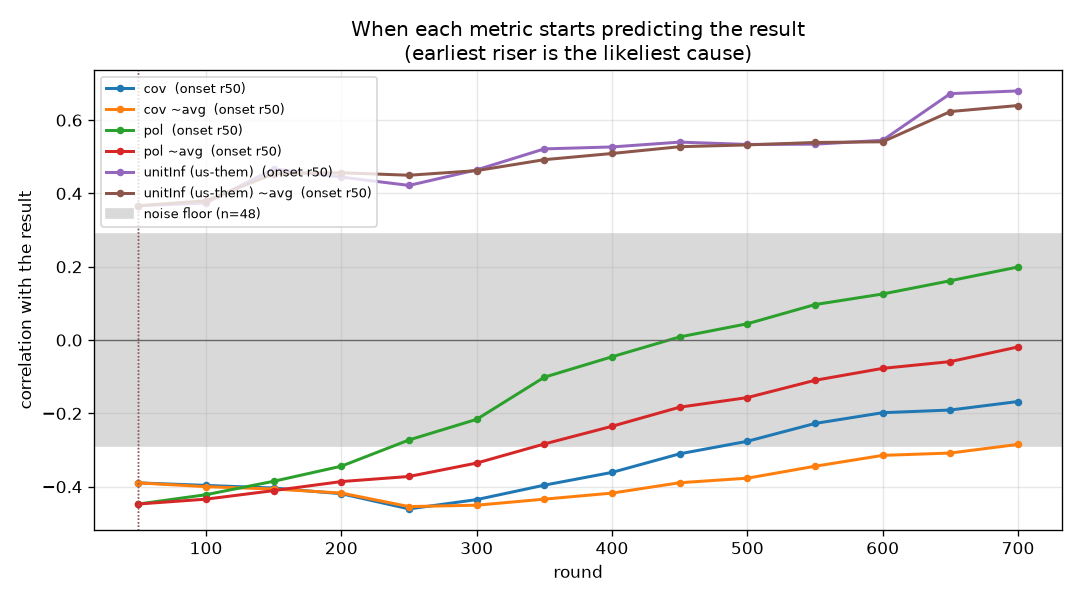
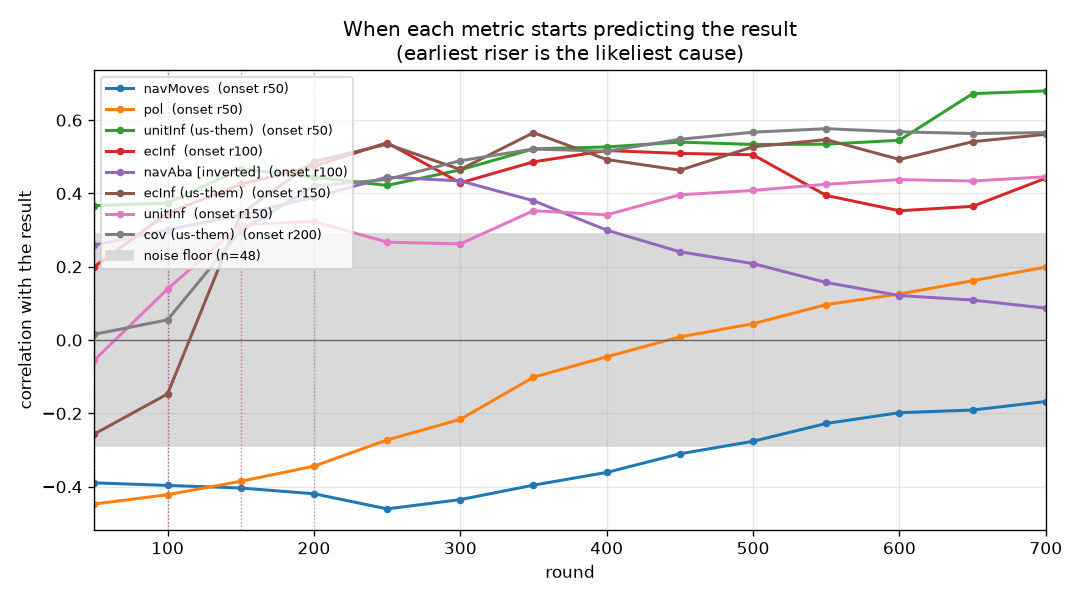
Onset graph: one curve per distinct metric (it was spending half its panel on ~avg duplicates and omitting coverage and ECs entirely); corrected ONSET.md and graph checked in
Claude-Session: https://claude.ai/code/session_01VgeNHsn9ncLsLui8RaK6L7

diff --git a/tools/onset.py b/tools/onset.py
@@ -104,9 +104,18 @@ for _, name, curve, onset in sorted(table):
 if o.plot:
     import matplotlib; matplotlib.use('Agg'); import matplotlib.pyplot as plt
     fig, ax = plt.subplots(figsize=(9, 5))
-    shown = [t for t in sorted(table) if t[3] is not None][:6]
-    if not shown: shown = sorted(table, key=lambda t: -max((abs(c) for c in t[2] if c is not None), default=0))[:6]
+    # one curve per distinct metric: plotting both x and "x ~avg" wastes half the panel on
+    # near-identical lines and pushes later-onset metrics (coverage, ECs) off the graph entirely
+    seen = set(); shown = []
+    for t in sorted(table):
+        base = t[1].replace(' ~avg', '')
+        if t[3] is None or base in seen: continue
+        seen.add(base); shown.append(t)
+        if len(shown) == 8: break
+    if not shown:
+        shown = sorted(table, key=lambda t: -max((abs(c) for c in t[2] if c is not None), default=0))[:8]
     cmap = plt.get_cmap('tab10')
+    ax.set_xlim(min(rounds), max(rounds))
     for i, (_, name, curve, onset) in enumerate(shown):
         xs = [rr for rr, c in zip(rounds, curve) if c is not None]
         ys = [c for c in curve if c is not None]

diff --git a/progress/ONSET.md b/progress/ONSET.md
@@ -9,40 +9,41 @@ See `progress/METRICS.md` for how each quantity is computed.
 
 | onset | metric | peak corr | r50 | r100 | r200 | r300 | r400 | r600 |
 |---|---|---|---|---|---|---|---|---|
-| r50 | cov | -0.46 | -0.39 | -0.40 | -0.42 | -0.44 | -0.36 | -0.20 |
-| r50 | cov ~avg | -0.45 | -0.39 | -0.40 | -0.42 | -0.45 | -0.42 | -0.31 |
+| r50 | navMoves | -0.46 | -0.39 | -0.40 | -0.42 | -0.44 | -0.36 | -0.20 |
+| r50 | navMoves ~avg | -0.45 | -0.39 | -0.40 | -0.42 | -0.45 | -0.42 | -0.31 |
 | r50 | pol | -0.45 | -0.45 | -0.42 | -0.34 | -0.22 | -0.05 | +0.13 |
 | r50 | pol ~avg | -0.45 | -0.45 | -0.43 | -0.39 | -0.34 | -0.24 | -0.08 |
 | r50 | unitInf (us-them) | +0.68 | +0.37 | +0.37 | +0.44 | +0.46 | +0.53 | +0.55 |
 | r50 | unitInf (us-them) ~avg | +0.64 | +0.37 | +0.38 | +0.46 | +0.46 | +0.51 | +0.54 |
 | r100 | ecInf | +0.54 | +0.20 | +0.35 | +0.47 | +0.43 | +0.52 | +0.35 |
 | r100 | ecInf ~avg | +0.63 | +0.20 | +0.34 | +0.46 | +0.50 | +0.54 | +0.61 |
-| r100 | navMoves | -0.44 | -0.26 | -0.30 | -0.39 | -0.43 | -0.30 | -0.12 |
-| r100 | navMoves ~avg | -0.44 | -0.26 | -0.31 | -0.38 | -0.44 | -0.37 | -0.25 |
+| r100 | navAba [inverted] | +0.44 | +0.26 | +0.30 | +0.39 | +0.43 | +0.30 | +0.12 |
+| r100 | navAba [inverted] ~avg | +0.44 | +0.26 | +0.31 | +0.38 | +0.44 | +0.37 | +0.25 |
 | r150 | ecInf (us-them) | +0.57 | -0.26 | -0.15 | +0.49 | +0.47 | +0.49 | +0.49 |
 | r150 | unitInf | +0.45 | -0.05 | +0.14 | +0.32 | +0.26 | +0.34 | +0.44 |
+| r200 | cov (us-them) | +0.58 | +0.02 | +0.06 | +0.42 | +0.49 | +0.52 | +0.57 |
+| r200 | cov (us-them) ~avg | +0.53 | +0.02 | +0.05 | +0.34 | +0.43 | +0.44 | +0.51 |
 | r200 | ec (us-them) | +0.59 | -0.13 | +0.16 | +0.45 | +0.53 | +0.59 | +0.56 |
 | r200 | ec (us-them) ~avg | +0.63 | -0.13 | +0.11 | +0.38 | +0.46 | +0.54 | +0.59 |
 | r200 | ecInf (us-them) ~avg | +0.67 | -0.26 | -0.20 | +0.44 | +0.51 | +0.60 | +0.64 |
-| r200 | navMoves (us-them) | -0.41 | -0.27 | -0.16 | -0.33 | -0.38 | -0.15 | +0.18 |
-| r200 | navSwamp (us-them) | -0.32 | -0.18 | -0.15 | -0.31 | -0.32 | -0.05 | +0.08 |
-| r250 | navMoves (us-them) ~avg | -0.38 | -0.27 | -0.19 | -0.28 | -0.38 | -0.26 | -0.00 |
+| r200 | navAba (us-them) | -0.41 | -0.27 | -0.16 | -0.33 | -0.38 | -0.15 | +0.18 |
+| r250 | navAba (us-them) ~avg | -0.38 | -0.27 | -0.19 | -0.28 | -0.38 | -0.26 | -0.00 |
 | r300 | buff ~avg | +0.36 | +0.15 | +0.05 | +0.24 | +0.32 | +0.18 | -0.02 |
 | r300 | muc (us-them) | +0.42 | +0.12 | +0.13 | +0.25 | +0.33 | +0.35 | +0.40 |
-| r300 | navSwamp (us-them) ~avg | -0.32 | -0.18 | -0.19 | -0.25 | -0.32 | -0.22 | -0.00 |
 | r350 | ec | +0.37 | +0.14 | +0.14 | +0.23 | +0.25 | +0.32 | +0.32 |
 | r350 | pol (us-them) | +0.54 | +0.20 | -0.08 | -0.02 | +0.29 | +0.40 | +0.46 |
 | r350 | sla (us-them) | +0.55 | -0.19 | +0.00 | +0.11 | +0.28 | +0.37 | +0.46 |
 | r350 | unitInf ~avg | +0.41 | -0.05 | +0.11 | +0.28 | +0.28 | +0.32 | +0.39 |
-| r400 | cov (us-them) | +0.47 | +0.03 | +0.14 | +0.12 | +0.19 | +0.31 | +0.45 |
+| r400 | navMoves (us-them) | +0.47 | +0.03 | +0.14 | +0.12 | +0.19 | +0.31 | +0.45 |
 | r450 | muc (us-them) ~avg | +0.38 | +0.12 | +0.13 | +0.22 | +0.27 | +0.29 | +0.36 |
 | r450 | pol (us-them) ~avg | +0.49 | +0.20 | +0.01 | -0.04 | +0.12 | +0.27 | +0.40 |
 | r450 | sla (us-them) ~avg | +0.51 | -0.19 | -0.07 | +0.02 | +0.14 | +0.27 | +0.38 |
-| r500 | cov (us-them) ~avg | +0.42 | +0.03 | +0.12 | +0.13 | +0.15 | +0.24 | +0.38 |
-| r700 | navSwamp [inverted] | +0.31 | -0.13 | -0.07 | +0.17 | +0.23 | +0.23 | +0.29 |
+| r500 | navMoves (us-them) ~avg | +0.42 | +0.03 | +0.12 | +0.13 | +0.15 | +0.24 | +0.38 |
 | - | buff | +0.22 | +0.15 | -0.04 | +0.17 | +0.22 | -0.05 | +0.10 |
 | - | buff (us-them) | +0.30 | +0.22 | -0.17 | -0.09 | +0.27 | +0.02 | +0.15 |
 | - | buff (us-them) ~avg | +0.22 | +0.22 | -0.04 | +0.04 | +0.07 | +0.11 | -0.01 |
+| - | cov | +0.18 | +0.05 | +0.05 | +0.16 | +0.18 | +0.04 | +0.06 |
+| - | cov ~avg | +0.16 | +0.05 | +0.05 | +0.12 | +0.15 | +0.05 | +0.05 |
 | - | ec ~avg | +0.29 | +0.14 | +0.15 | +0.15 | +0.17 | +0.21 | +0.28 |
 | - | exp | +0.24 | +0.14 | +0.02 | +0.13 | +0.20 | +0.11 | +0.02 |
 | - | exp (us-them) | +0.27 | +0.23 | +0.10 | -0.09 | +0.13 | +0.24 | +0.23 |
@@ -50,11 +51,10 @@ See `progress/METRICS.md` for how each quantity is computed.
 | - | exp ~avg | +0.18 | +0.14 | +0.07 | +0.13 | +0.15 | +0.17 | +0.06 |
 | - | muc | -0.22 | +0.16 | +0.02 | -0.20 | -0.17 | -0.07 | -0.03 |
 | - | muc ~avg | -0.19 | +0.16 | +0.10 | -0.06 | -0.19 | -0.17 | -0.12 |
-| - | navAba (us-them) | . | . | . | . | . | . | . |
-| - | navAba (us-them) ~avg | . | . | . | . | . | . | . |
-| - | navAba [inverted] | . | . | . | . | . | . | . |
-| - | navAba [inverted] ~avg | . | . | . | . | . | . | . |
-| - | navSwamp [inverted] ~avg | +0.28 | -0.13 | -0.09 | +0.08 | +0.18 | +0.20 | +0.25 |
+| - | navSwamp (us-them) | . | . | . | . | . | . | . |
+| - | navSwamp (us-them) ~avg | . | . | . | . | . | . | . |
+| - | navSwamp [inverted] | . | . | . | . | . | . | . |
+| - | navSwamp [inverted] ~avg | . | . | . | . | . | . | . |
 | - | sla | -0.31 | -0.31 | -0.15 | -0.15 | -0.15 | -0.03 | +0.17 |
 | - | sla ~avg | -0.31 | -0.31 | -0.22 | -0.20 | -0.21 | -0.15 | -0.03 |
 

diff --git a/PROMPTS.md b/PROMPTS.md
@@ -259,3 +259,7 @@ Good, glad to know the tests caught a real bug.  Make sure to run them every tim
 ## 59. 2026-09-19
 
 I'd also like you to write unit tests for the bot and run them after every change
+
+## 60. 2026-09-19
+
+Is everything checked in?  When I look at the onset-ladder.png graph you generated, I see a negative correlation for coverage and coverage average.  Only unitinf metrics are positively correlated throughout
